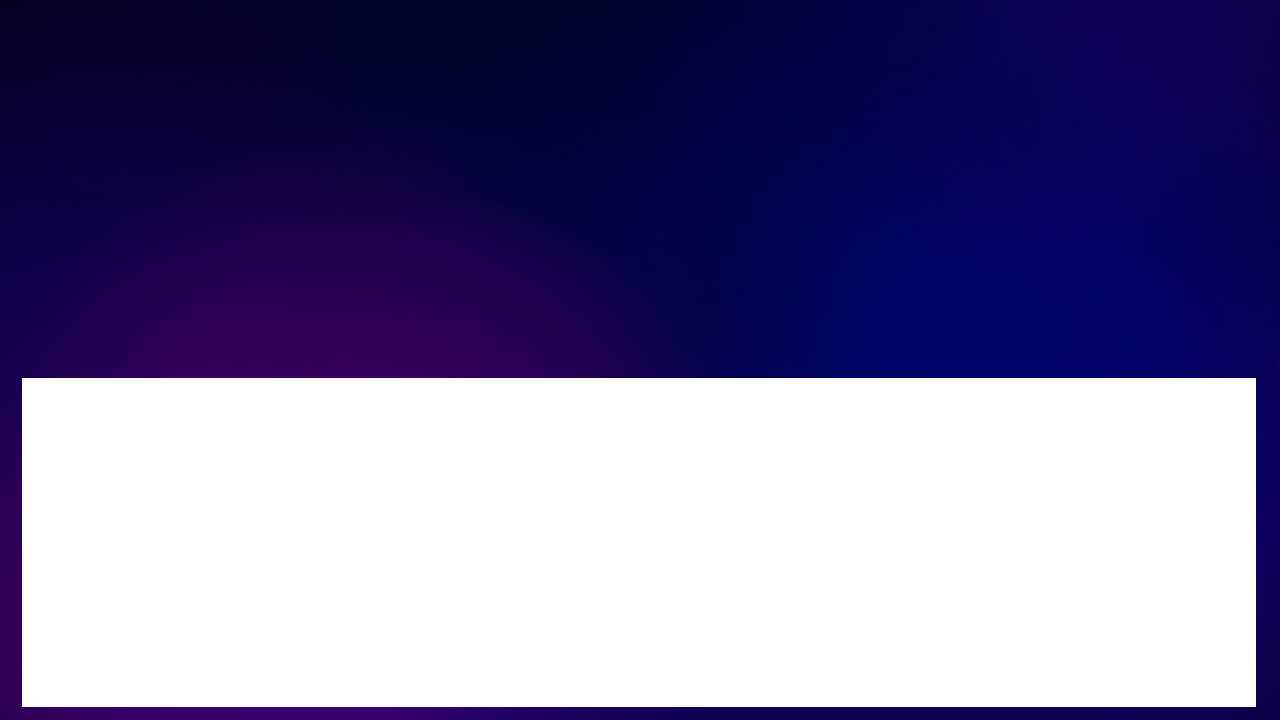
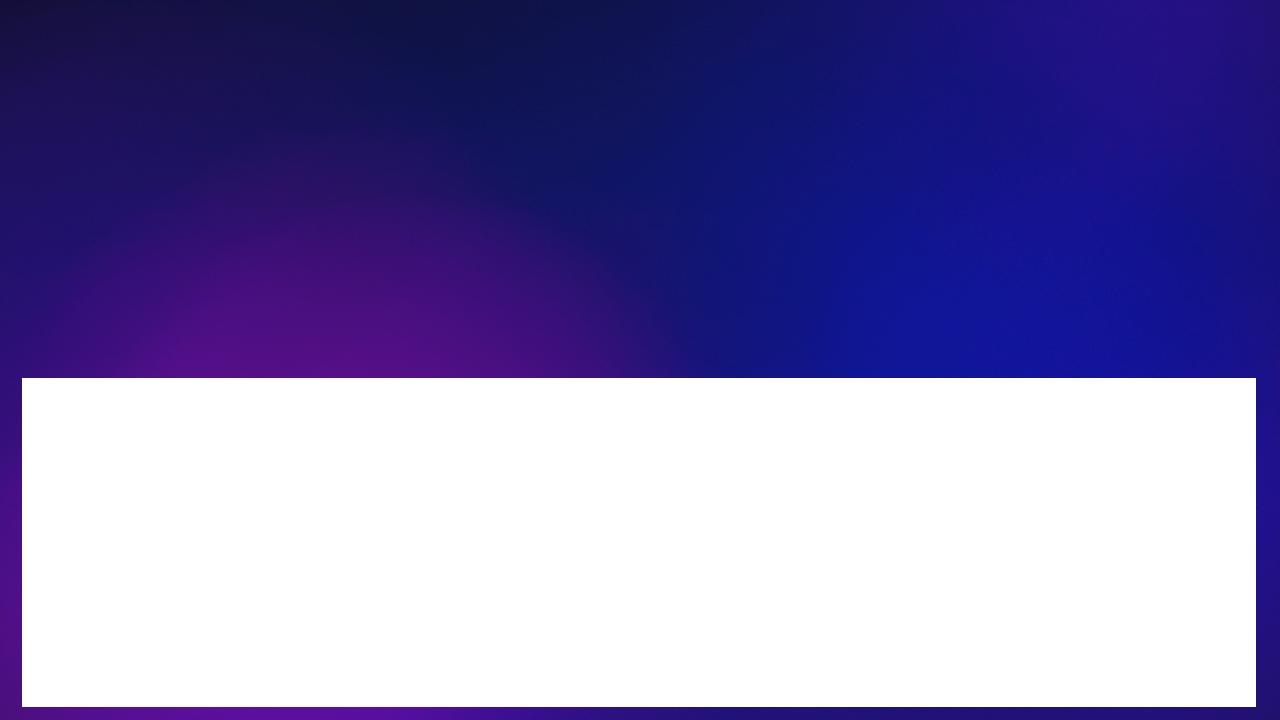
Fornaazll22j

diff --git a/proyecMonopolyPractice/src/game/offiline/PieceSelectorO.cpp b/proyecMonopolyPractice/src/game/offiline/PieceSelectorO.cpp
@@ -25,6 +25,7 @@ void PieceSelectOff::Resource() {
 	shadow.resize(piecesCount);
 	pieceShape.resize(piecesCount);
 	if (!TextureFrame.loadFromFile("assets/image/Avatars/MarcoTexture.png")) return;
+	if (!Textucicle.loadFromFile("assets/image/Game/pieces/1ntitled.png")) return;
 	if (!TextureMoney1.loadFromFile("assets/image/Game/cash.png")) return;
 	if (!TextureBuilding.loadFromFile("assets/image/Game/casa.png")) return;
 
@@ -52,7 +53,10 @@ void PieceSelectOff::Resource() {
 		shadow[i].setOrigin(globalBounds.width / 2.0f, globalBounds.height / 2.0f);
 
 	}
-	
+	CircleSpri.setTexture(Textucicle);
+	globalBounds = CircleSpri.getGlobalBounds();
+	CircleSpri.setOrigin(globalBounds.width / 2.0f, globalBounds.height / 2.0f);
+
 
 	for (int i = 0; i < piecesOff.size(); i++) {
 		int row = i / 8; 
@@ -256,6 +260,7 @@ void PieceSelectOff::updateSelection() {
 							playerGameOff[0].PieceSelect.setOrigin(piecesOff[i].getOrigin()); 
 							playerGameOff[0].PieceSelect.setColor(sf::Color::White); 
 							playerGameOff[0].PieceSelect.setPosition(startX + 0 * (250 + 10), startY + 100);
+							
 							piecesOff[i].setColor(sf::Color(248, 134, 255));  // Resaltar la nueva pieza
 							playerGameInfo[0].indexPiece = i;
 							piecesOff[i].setColor(sf::Color(248, 134, 255));
@@ -314,13 +319,13 @@ void PieceSelectOff::updateSelection() {
 		botonX->update(mousePosFloat, currentCursor, linkCursor, normalCursor);
 
 		window->setMouseCursor(*currentCursor);
-		std::cout << "\n\nPROBANDO6" << std::endl;
+		//std::cout << "\n\nPROBANDO6" << std::endl;
 	
 		for (int i = 0; i < ActiveUsers.size(); i++)
 		{
-			std::cout << "\n\nPROBANDO7" << std::endl;
+			//std::cout << "\n\nPROBANDO7" << std::endl;
 			if (playerGameInfo[ActiveUsers[i]].isSelectingPiece) {
-				std::cout << "\n\nPROBANDO8" << std::endl;
+			//	std::cout << "\n\nPROBANDO8" << std::endl;
 				playerGameOff[ActiveUsers[i]].Check.setTexture(CheckOn);
 			}
 		}
@@ -348,11 +353,12 @@ void PieceSelectOff::updateSelection() {
 				playerGameOff[ActiveUsers[i]].boxPlayer.setPosition(xPos, startY );
 				playerGameOff[ActiveUsers[i]].PieceSelect.setPosition(xPos, startY + 100);
 				playerGameOff[ActiveUsers[i]].Check.setPosition(xPos, yPos + 200);
+				CircleSpri.setPosition(xPos, startY + 100);
 				window->draw(playerGameOff[ActiveUsers[i]].NamePlayer);
 				window->draw(playerGameOff[ActiveUsers[i]].boxPlayer);
 				window->draw(playerGameOff[ActiveUsers[i]].PieceSelect);
 				window->draw(playerGameOff[ActiveUsers[i]].Check);
-				std::cout << "\n\nPROBANDO10" << std::endl;
+			//	std::cout << "\n\nPROBANDO10" << std::endl;
 			}
 
 
@@ -360,10 +366,11 @@ void PieceSelectOff::updateSelection() {
 
 		window->draw(CODE);
 		window->draw(spriteX);
+		window->draw(CircleSpri);
 
 		scrollbarPiece.draw(*window);
 		window->display();
-		std::cout << "\n\nPROBANDO11" << std::endl;
+		//std::cout << "\n\nPROBANDO11" << std::endl;
 	}
 
 }

diff --git a/proyecMonopolyPractice/src/game/offiline/HouseBuyO.cpp b/proyecMonopolyPractice/src/game/offiline/HouseBuyO.cpp
@@ -189,6 +189,10 @@ void HouseBuyO::update(sf::Vector2f posicionactuInicial) {
 					CsCmpdrsindex.push_back(IndexCAsa);
 
 					playerGameInfo[IndexTurn1].numCasas += 1;
+					playerGameInfo[IndexTurn1].impuesto += houses[playerGameInfo[IndexTurn1].casasPorJugador[IndexCAsa]].impuesto;
+					playerGameInfo[IndexTurn1].salario += houses[playerGameInfo[IndexTurn1].casasPorJugador[IndexCAsa]].salario;
+					playerGameInfo[IndexTurn1].money -= houses[IndexCAsa].costo;
+					playerGameOff[IndexTurn1].Money.setString(std::to_string(playerGameInfo[IndexTurn1].money));
 					playerGameOff[IndexTurn1].CasasN.setString(std::to_string(playerGameInfo[IndexTurn1].numCasas));
 					cierre = true;
 

diff --git a/proyecMonopolyPractice/src/menu/IniciaUser.cpp b/proyecMonopolyPractice/src/menu/IniciaUser.cpp
@@ -182,12 +182,12 @@ void IniciaUser::IniciAcion() {
 	sf::RectangleShape marcoFondo,BordeFondo;
 
 	marcoFondo.setSize(sf::Vector2f(1280.f, 400.f));
-	marcoFondo.setFillColor(sf::Color(0, 0, 0, 58));
+	marcoFondo.setFillColor(sf::Color(0, 0, 0, 0));
 	marcoFondo.setPosition(0, 310);
 	BordeFondo.setSize(sf::Vector2f(1280.f, 370.f));
 	BordeFondo.setFillColor(sf::Color(0, 0, 0, 0));
-	BordeFondo.setOutlineColor(sf::Color(0, 0, 0,200));
-	BordeFondo.setOutlineThickness(-22);
+//	BordeFondo.setOutlineColor(sf::Color(0, 0, 0,200));
+	//BordeFondo.setOutlineThickness(-22);
 	BordeFondo.setPosition(0 -2, 358);
 
 

diff --git a/proyecMonopolyPractice/src/game/offiline/PieceSelectorO.hpp b/proyecMonopolyPractice/src/game/offiline/PieceSelectorO.hpp
@@ -16,7 +16,9 @@ private:
     sf::Vector2f mousePosFloat;
     sf::FloatRect globalBounds;
     sf::Sprite fondopiece;
+    sf::Sprite CircleSpri;
     sf::Texture Textufondopiece;
+    sf::Texture Textucicle;
     
     sf::Text CODE;
     float startX;
